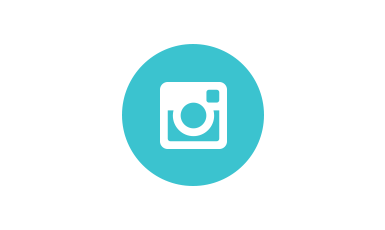
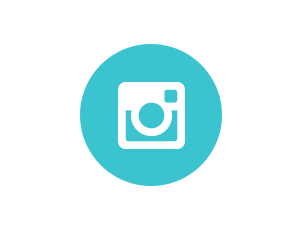
New footer

diff --git a/_layouts/email.html b/_layouts/email.html
@@ -126,7 +126,7 @@
   <!-- FOOTER -->
   <table border="0" cellpadding="0" cellspacing="0" width="100%">
     <tr>
-      <td bgcolor="#ffffff" align="center">
+      <td bgcolor="#000000" align="center" style="background-image: url({{site.baseurl}}/img/email/footer-bg.jpg); background-repeat:no-repeat; background-position:center top;">
         <!-- TABLE WRAP FOR PADDING -->
         <table border="0" cellpadding="0" cellspacing="0" width="556" class="responsive-table">
           <tr>
@@ -135,39 +135,49 @@
 
                 <!-- SIGN OFF MESSAGE -->
                 <tr>
-                  <td align="center" style="color: #384f51; font-family: Helvetica, Arial, sans-serif, 'Open Sans'; font-size: 22px; line-height: 27px; letter-spacing: .025em; font-weight: 300; padding-bottom: 18px;">
-                    <span style="font-size: 15px; line-height: 18px;">Best Wishes</span> <br />
-                    The Secret Escapes Team
+                  <td align="center" style="color: #ffffff; font-family: Helvetica, Arial, sans-serif, 'Open Sans'; font-size: 22px; line-height: 27px; letter-spacing: .025em; font-weight: 300; padding-bottom: 0px;">
+                    <img src="{{site.baseurl}}/img/email/curated.png" alt="Curated by the Secret Escapes team." />
                   </td>
                 </tr>
+            </table>
+                <!-- START - bulletproof hr -->
+                <table align="center" width="100px" border="0" cellspacing="0" cellpadding="0">
+                  <tr>
+                    <td align="center" style="background:none; border-bottom: 1px solid #3bc3cf; height:30px; width:100px; margin:0; padding: 0; line-height:0;"><div style="width:100px;"></div></td>
+                  </tr>
+                  <tr>
+                    <td align="center" style="background:none; height:30px; width:100px; margin:0; padding:0; line-height:0;"></td>
+                  </tr>
+                </table>
 
+                  <table border="0" cellpadding="0" cellspacing="0" width="556" class="responsive-table">
                 <!-- SOCIAL MEDIA ICONS -->
                 <tr>
                   <td align="center" style="padding-bottom: 33px;">
-                    <a href="https://www.facebook.com/SecretEscapes/"><img width="96" src="{{ site.baseurl }}/img/email/social-facebook.png" alt="Facebook Icon" style="display: inline-block;" /></a>
-                   <a href="https://twitter.com/secret_escapes"><img width="96" src="{{ site.baseurl }}/img/email/social-twitter.png" alt="Twitter Icon" style="display: inline-block;" /></a>
-                   <a href="https://www.instagram.com/secretescapes/"><img width="96" src="{{ site.baseurl }}/img/email/social-instagram.png" alt="Instagram Icon" style="display: inline-block;" /></a>
+                    <a href="https://www.facebook.com/SecretEscapes/"><img width="70" src="{{ site.baseurl }}/img/email/social-facebook.png" alt="Facebook Icon" style="display: inline-block;" /></a>
+                   <a href="https://twitter.com/secret_escapes"><img width="70" src="{{ site.baseurl }}/img/email/social-twitter.png" alt="Twitter Icon" style="display: inline-block;" /></a>
+                   <a href="https://www.instagram.com/secretescapes/"><img width="70" src="{{ site.baseurl }}/img/email/social-instagram.png" alt="Instagram Icon" style="display: inline-block;" /></a>
                   </td>
                 </tr>
                 <!-- FOOTER SMALL TEXT -->
                 <tr>
-                  <td align="center" style="color: #1f2323; font-family: Helvetica, Arial, sans-serif, 'Lato'; font-size: 11px; line-height: 18px; letter-spacing: .05em; font-weight: 300; text-align: justify; padding-bottom: 12px;">
+                  <td align="center" style="color: #ffffff; font-family: Helvetica, Arial, sans-serif, 'Lato'; font-size: 11px; line-height: 18px; letter-spacing: .05em; font-weight: 300; text-align: justify; padding-bottom: 12px;">
                     When we’re not curating luxury escapes, we like to keep an eye out for promotions we think you’ll love – like these ones. We hope you enjoyed it. Visit our <a href="{{ site.url }}{{ site.baseurl }}{{ edition.link }}#terms-and-conditions" style="color: #3bc3cf; font-weight: 400; text-decoration: none;">Terms &amp; Conditions</a> page for more information on these offers.
                   </td>
                 </tr>
                 <tr>
-                  <td align="center" style="color: #1f2323; font-family: Helvetica, Arial, sans-serif, 'Lato'; font-size: 11px; line-height: 18px; letter-spacing: .05em; font-weight: 300; text-align: justify; padding-bottom: 12px;">
+                  <td align="center" style="color: #ffffff; font-family: Helvetica, Arial, sans-serif, 'Lato'; font-size: 11px; line-height: 18px; letter-spacing: .05em; font-weight: 300; text-align: justify; padding-bottom: 12px;">
                     Clicking our emails will log you into Secret Escapes. To tell friends about the sales it's best to use the share buttons on the site. To get in contact, please email us at <a href="mailto:support@secretescapes.com" style="color:#3bc3cf; text-decoration: none; font-weight:400;">support@secretescapes.com</a> or give us a call on 0843 22 77 777.
                   </td>
                 </tr>
                 <tr>
-                  <td align="center" style="color: #1f2323; font-family: Helvetica, Arial, sans-serif, 'Lato'; font-size: 11px; line-height: 18px; letter-spacing: .05em; font-weight: 300; text-align: justify; padding-bottom: 12px;">
+                  <td align="center" style="color: #ffffff; font-family: Helvetica, Arial, sans-serif, 'Lato'; font-size: 11px; line-height: 18px; letter-spacing: .05em; font-weight: 300; text-align: justify; padding-bottom: 12px;">
                     England &amp; Wales Company No. 07026107
                   </td>
                 </tr>
                 <tr>
-                  <td align="center" style="color: #1f2323; font-family: Helvetica, Arial, sans-serif, 'Lato'; font-size: 11px; line-height: 18px; letter-spacing: .05em; font-weight: 300; text-align: justify; padding-bottom: 12px;">
-                    This email was sent to <a href="#" style="color:#000000; text-decoration: none;">%%EMAIL%%.</a> <a href="http://www.secretescapes.com/your-subscriptions?email=%%EMAIL%%&code=%%REFERENCE%%&utm_source=secretescapes&utm_medium=email&utm_campaign=%%=v(@campaign)=%%%%=v(@GA)=%%" style="color: #3bc3cf; font-weight: 400; text-decoration: none;">Unsubscribe here</a>
+                  <td align="center" style="color: #ffffff; font-family: Helvetica, Arial, sans-serif, 'Lato'; font-size: 11px; line-height: 18px; letter-spacing: .05em; font-weight: 300; text-align: justify; padding-bottom: 12px;">
+                    This email was sent to <a href="#" style="color:#ffffff; text-decoration: none;">%%EMAIL%%.</a> <a href="http://www.secretescapes.com/your-subscriptions?email=%%EMAIL%%&code=%%REFERENCE%%&utm_source=secretescapes&utm_medium=email&utm_campaign=%%=v(@campaign)=%%%%=v(@GA)=%%" style="color: #3bc3cf; font-weight: 400; text-decoration: none;">Unsubscribe here</a>
                   </td>
                 </tr>
 
